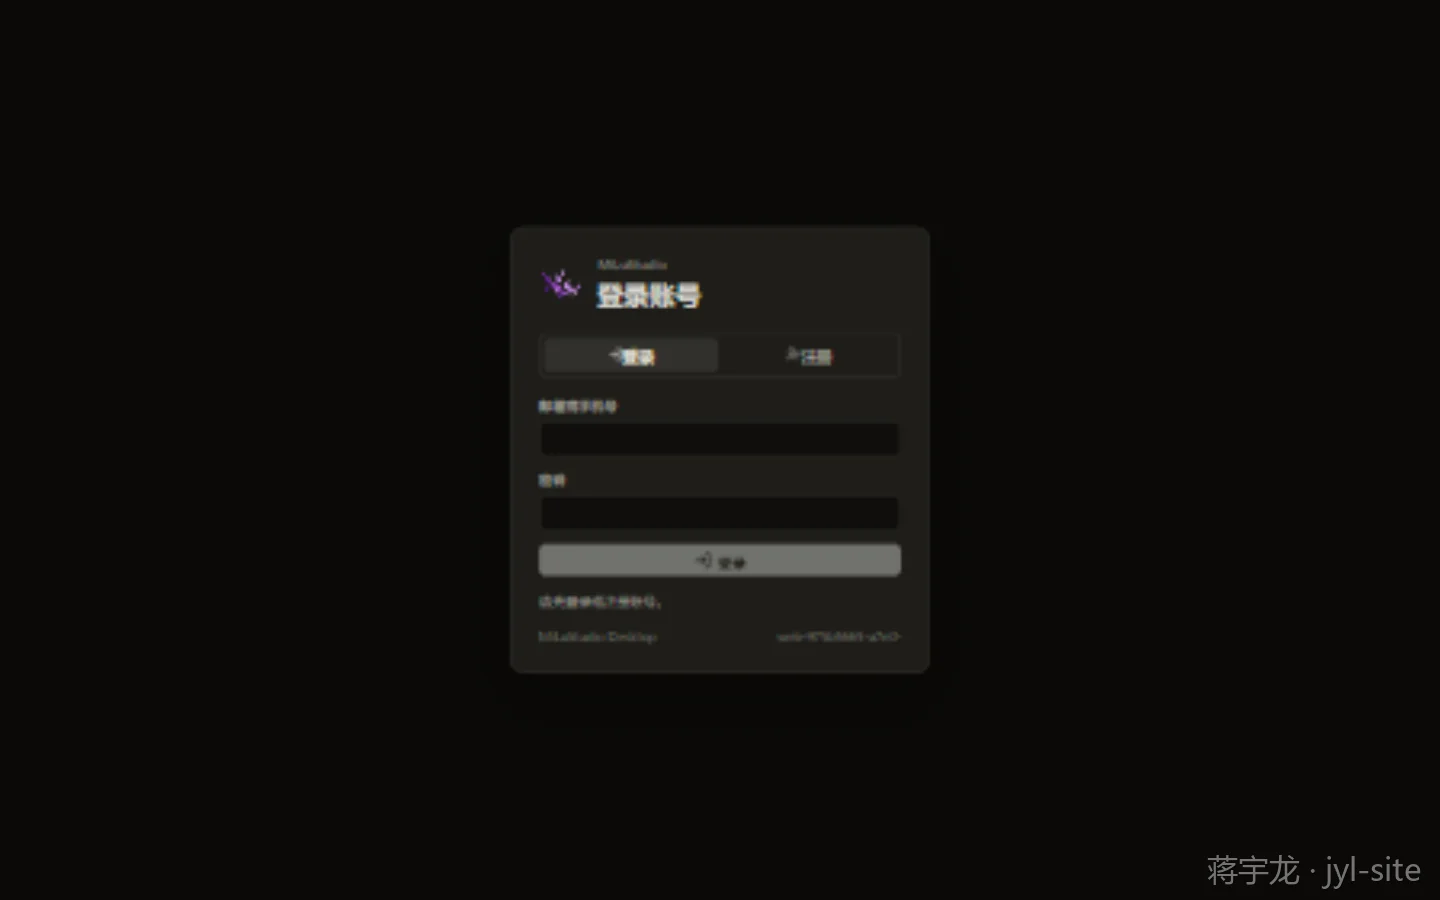
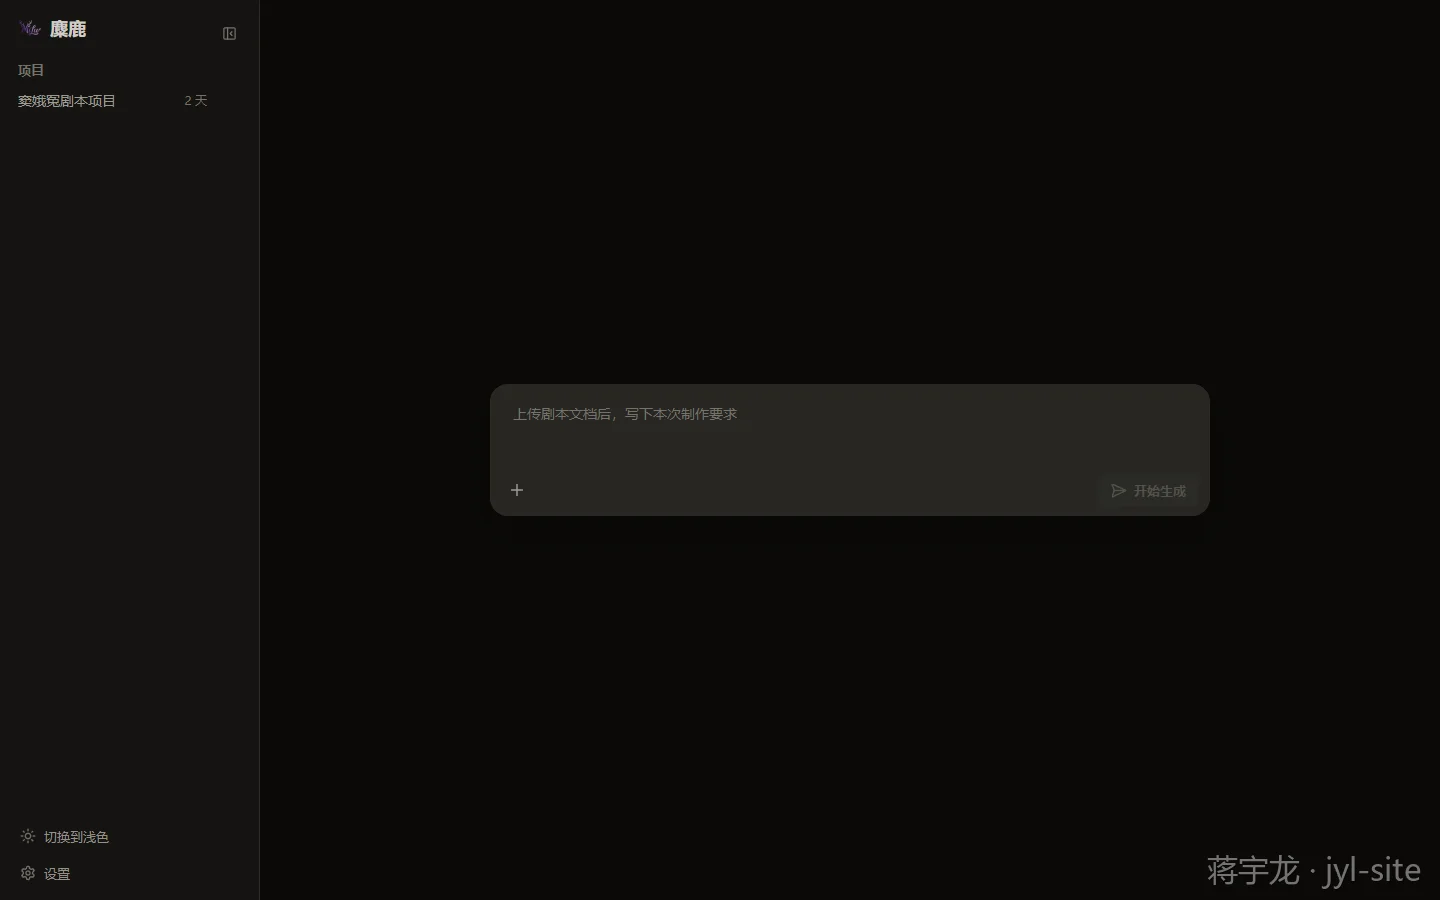
fix: 项目区描述改两行显示；MiLuStudio 截图换回工作台 overview

diff --git a/src/components/Projects.tsx b/src/components/Projects.tsx
@@ -213,15 +213,18 @@ export default function Projects() {
           title="近期项目与代表作品"
           description={
             <>
-              按岗位方向筛选查看 · 更多项目见{' '}
-              <a
-                href={profile.github}
-                target="_blank"
-                rel="noreferrer"
-                className="font-medium text-blue-700 underline decoration-blue-300 underline-offset-4 hover:text-blue-800 dark:text-blue-400 dark:decoration-blue-500/50 dark:hover:text-blue-300"
-              >
-                {profile.githubLabel}
-              </a>
+              <span className="block">按岗位方向筛选查看</span>
+              <span className="block">
+                更多项目见{' '}
+                <a
+                  href={profile.github}
+                  target="_blank"
+                  rel="noreferrer"
+                  className="font-medium text-blue-700 underline decoration-blue-300 underline-offset-4 hover:text-blue-800 dark:text-blue-400 dark:decoration-blue-500/50 dark:hover:text-blue-300"
+                >
+                  {profile.githubLabel}
+                </a>
+              </span>
             </>
           }
         />
